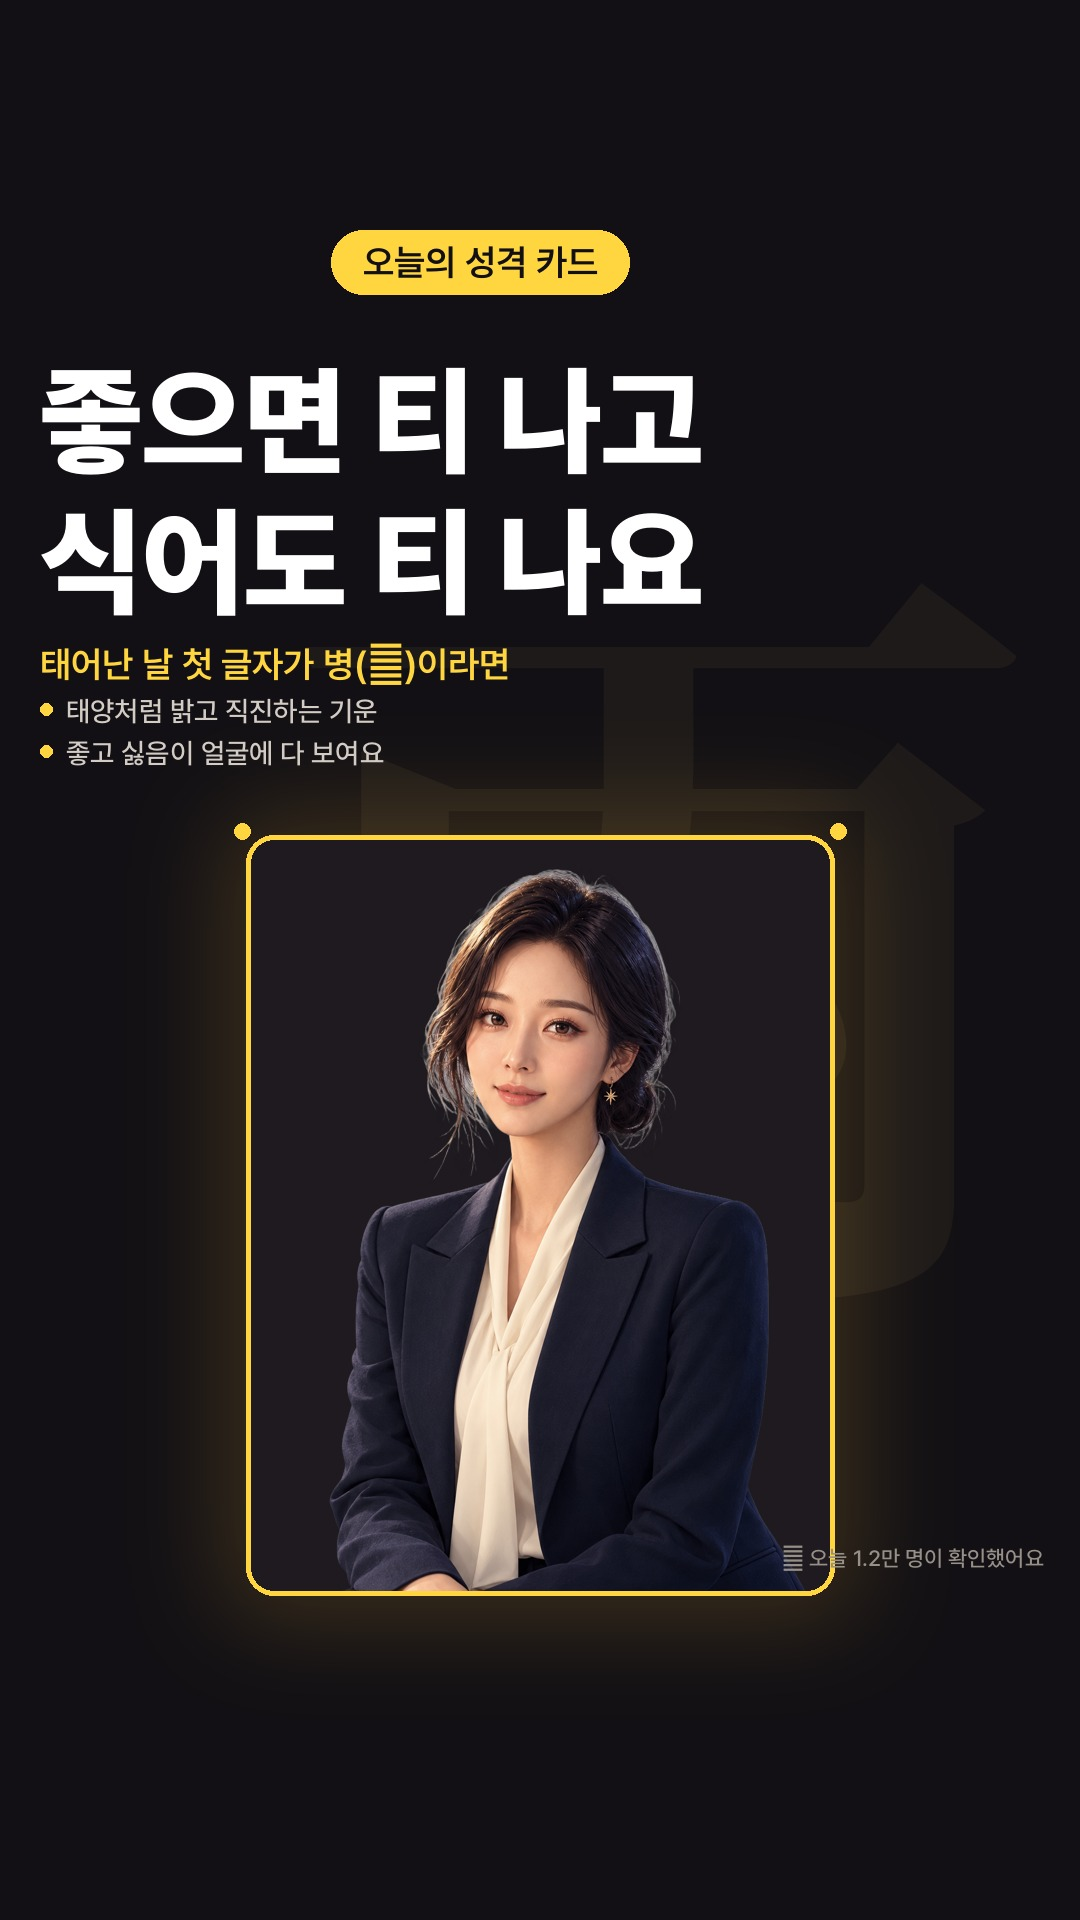
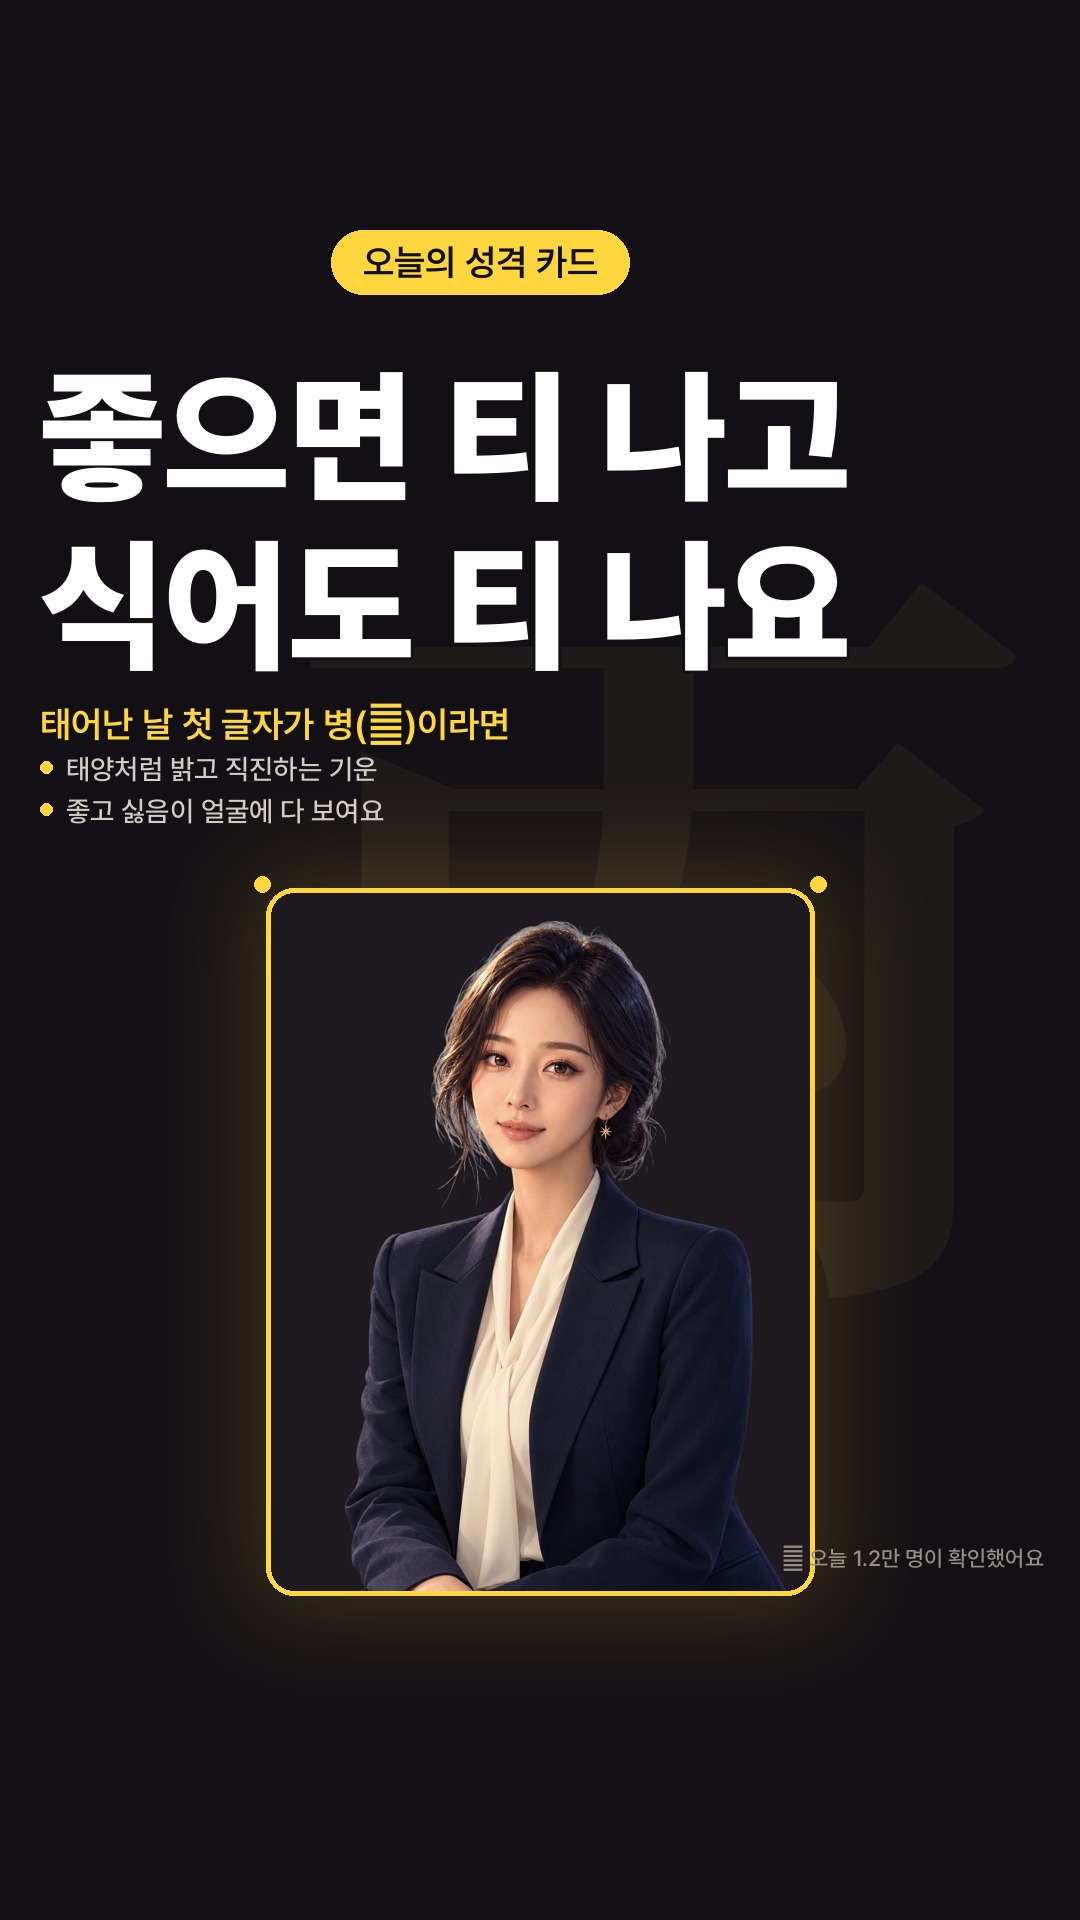
훅 글자: 폭 92% 자동 맞춤(fit_size)으로 전환 - 경쟁 계정 방식

Changed region(s): [[0.0306, 0.1875, 0.7944, 0.8438]]

diff --git a/pipeline/render.py b/pipeline/render.py
@@ -295,3 +295,16 @@ if __name__ == "__main__":
         elif p["image"]["type"] == "trait": trait(p["image"], f"{out}/{pre}.jpg")
         else: card(p["image"], f"{out}/{pre}.jpg")
     print("rendered", len(C["posts"]), "->", out)
+
+
+def fit_size(d, text, font_path, target_w, lo=60, hi=220):
+    """9/30 실측 교훈: 줄을 화면 폭의 target_w(px)에 맞춰 글자 크기를 역산한다.
+    (경쟁 계정은 고정 pt가 아니라 폭을 꽉 채우도록 자동 맞춤을 쓴다: 사주나루 97%, fortune88 77%)"""
+    best = lo
+    while lo <= hi:
+        mid = (lo + hi) // 2
+        f = F(BLACKF, mid)
+        w = d.textlength(text, font=f)
+        if w <= target_w: best = mid; lo = mid + 1
+        else: hi = mid - 1
+    return best
